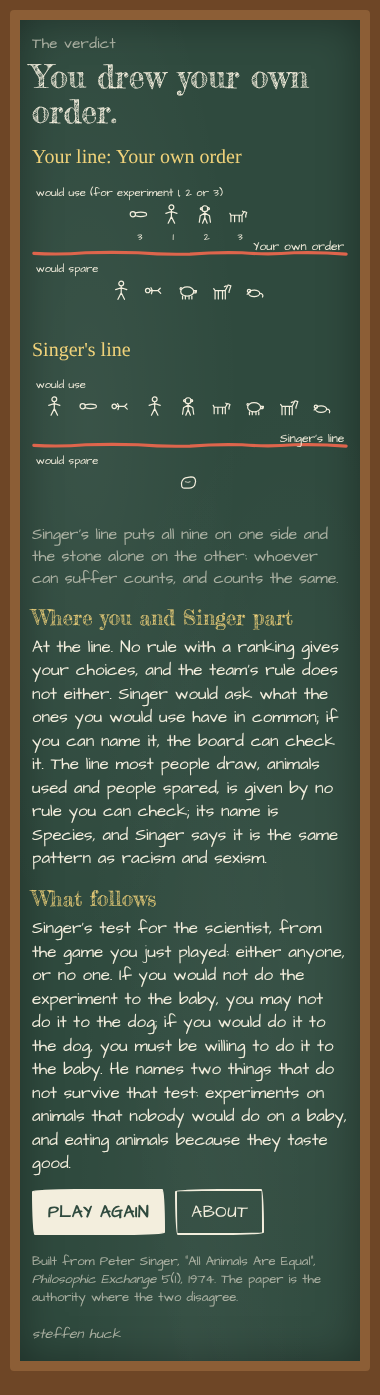
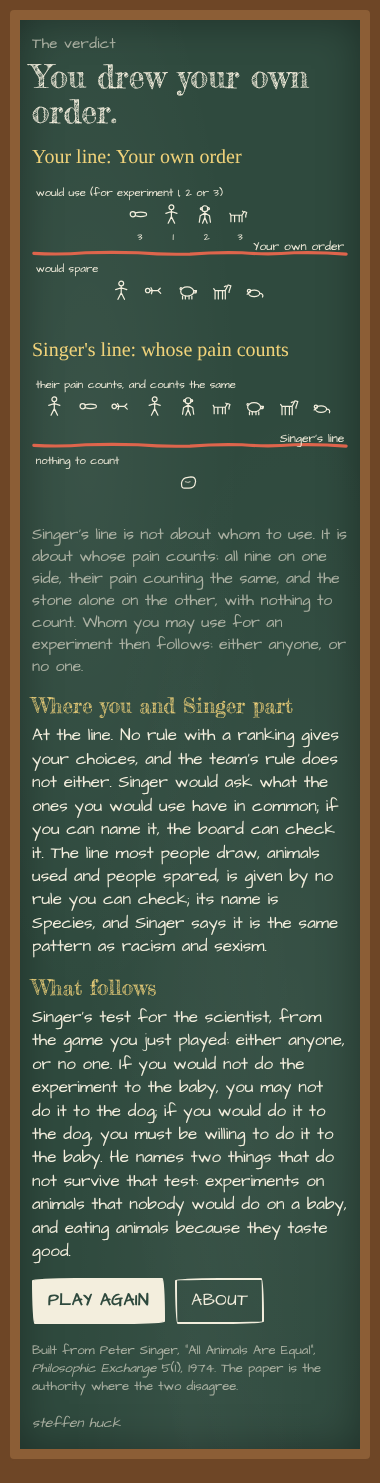
Draw a Line with Singer: the verdict's Singer drawing is about whose pain counts, not whom to use
The second drawing had borrowed the "would use / would spare" labels, which read as Singer using all nine and sparing the stone. Its labels are now "their pain counts, and counts the same" / "nothing to count", its heading "Singer's line: whose pain counts", and the caption says whom to use follows from it: either anyone, or no one.

Claude-Session: https://claude.ai/code/session_018niUhxTtpvUeZgsoHw7ZtQ

Changed region(s): [[0.0868, 0.0, 0.9263, 0.9864], [0.6658, 0.0308, 0.8105, 0.0616]]

diff --git a/singer/draw-a-line-with-singer.html b/singer/draw-a-line-with-singer.html
@@ -169,7 +169,7 @@ a{color:var(--chalk)}
   <div class="fate" id="fate"></div>
   <div class="vp-head" id="vp-yours"></div>
   <div class="verdictpic"><svg id="pic-yours" viewBox="0 0 340 150"></svg></div>
-  <div class="vp-head">Singer's line</div>
+  <div class="vp-head">Singer's line: whose pain counts</div>
   <div class="verdictpic"><svg id="pic-singer" viewBox="0 0 340 150"></svg></div>
   <p class="find" id="v-singer"></p>
   <div class="sec"><h2>Where you and Singer part</h2><div id="v-part"></div></div>
@@ -446,7 +446,7 @@ function verdict(state) {
   else if (s.id === 'line') { fate = 'You drew a straight line in the wrong place.'; part = 'At the rule. A rule you can check gives your choices, so they are not made by hand; but Singer says it is the wrong rule, as arbitrary as skin colour: the ones you would use are hurt exactly as much as the ones you would spare. ' + team; }
   else if (s.id === 'species') { fate = 'Your hand drew the line, not a rule.'; part = 'At the line. The only difference between the animals you would use and the people you would spare that fits what you did is the team each is on. Singer\'s word for that is speciesism, and he says it is the same pattern as racism and sexism.'; }
   else { fate = 'You drew your own order.'; part = 'At the line. No rule with a ranking gives your choices, and the team\'s rule does not either. Singer would ask what the ones you would use have in common; if you can name it, the board can check it. ' + team; }
-  var singerLine = 'Singer\'s line puts all nine on one side and the stone alone on the other: whoever can suffer counts, and counts the same.';
+  var singerLine = 'Singer\'s line is not about whom to use. It is about whose pain counts: all nine on one side, their pain counting the same, and the stone alone on the other, with nothing to count. Whom you may use for an experiment then follows: either anyone, or no one.';
   return { fate: fate, name: w.name, who: w.who, part: part, singerLine: singerLine, two: two, shape: s, line: line, did: didWords(ticks) };
 }
 
@@ -633,8 +633,8 @@ if (typeof module !== 'undefined') module.exports = { CONFIG: CONFIG, expName: e
     window.scrollTo(0, 0);
   }
   // ---- the verdict: two drawings, then a few lines
-  function drawLinePic(svgId, used, spared, name, stakesOf) {
-    var svg = $(svgId), W = 340, g = '';
+  function drawLinePic(svgId, used, spared, name, stakesOf, labels) {
+    var svg = $(svgId), W = 340, g = ''; labels = labels || ['would use', 'would spare'];
     function row(ids, y, label, withStakes) {
       g += '<text x="4" y="' + (y - 22) + '" font-size="12" fill="#F0D27A">' + esc(label) + '</text>';
       var n = ids.length; if (!n) { g += '<text x="4" y="' + (y + 4) + '" font-size="13" fill="#F3EEDD" opacity=".7">nobody</text>'; return; }
@@ -645,10 +645,10 @@ if (typeof module !== 'undefined') module.exports = { CONFIG: CONFIG, expName: e
         if (withStakes) g += '<text x="' + (x + 14) + '" y="' + (y + 26) + '" text-anchor="middle" font-size="11" fill="#F0D27A">' + stakesOf(id) + '</text>';
       });
     }
-    row(used, 40, 'would use' + (used.length && stakesOf ? ' (for experiment 1, 2 or 3)' : ''), !!stakesOf);
+    row(used, 40, labels[0] + (used.length && stakesOf ? ' (for experiment 1, 2 or 3)' : ''), !!stakesOf);
     g += '<path d="' + wobble(2, 338, 80) + '" fill="none" stroke="#E8664D" stroke-width="3.4" stroke-linecap="round" opacity=".95"/>';
     g += '<text x="336" y="76" text-anchor="end" font-size="13" fill="#E8664D">' + esc(name) + '</text>';
-    row(spared, 122, 'would spare', false);
+    row(spared, 122, labels[1], false);
     svg.innerHTML = g;
   }
   function endGame() {
@@ -656,7 +656,7 @@ if (typeof module !== 'undefined') module.exports = { CONFIG: CONFIG, expName: e
     $('fate').textContent = v.fate;
     $('vp-yours').textContent = 'Your line: ' + v.name;
     drawLinePic('pic-yours', v.line.used, v.line.spared, v.name, v.line.stakes);
-    drawLinePic('pic-singer', SUB.slice(), ['stone'], 'Singer\'s line', null);
+    drawLinePic('pic-singer', SUB.slice(), ['stone'], 'Singer\'s line', null, ['their pain counts, and counts the same', 'nothing to count']);
     $('v-singer').textContent = v.singerLine;
     $('v-part').innerHTML = '<p>' + esc(v.part) + '</p>';
     $('v-stood').innerHTML = '<p>' + esc(v.two) + '</p>' + (v.shape.id === 'refuse' ? '<p><a href="../foot/foots-bad-man.html" style="color:#F0D27A">Play Foot\'s Bad Man →</a></p>' : '');

diff --git a/singer/template.html b/singer/template.html
@@ -169,7 +169,7 @@ a{color:var(--chalk)}
   <div class="fate" id="fate"></div>
   <div class="vp-head" id="vp-yours"></div>
   <div class="verdictpic"><svg id="pic-yours" viewBox="0 0 340 150"></svg></div>
-  <div class="vp-head">Singer's line</div>
+  <div class="vp-head">Singer's line: whose pain counts</div>
   <div class="verdictpic"><svg id="pic-singer" viewBox="0 0 340 150"></svg></div>
   <p class="find" id="v-singer"></p>
   <div class="sec"><h2>Where you and Singer part</h2><div id="v-part"></div></div>
@@ -384,8 +384,8 @@ a{color:var(--chalk)}
     window.scrollTo(0, 0);
   }
   // ---- the verdict: two drawings, then a few lines
-  function drawLinePic(svgId, used, spared, name, stakesOf) {
-    var svg = $(svgId), W = 340, g = '';
+  function drawLinePic(svgId, used, spared, name, stakesOf, labels) {
+    var svg = $(svgId), W = 340, g = ''; labels = labels || ['would use', 'would spare'];
     function row(ids, y, label, withStakes) {
       g += '<text x="4" y="' + (y - 22) + '" font-size="12" fill="#F0D27A">' + esc(label) + '</text>';
       var n = ids.length; if (!n) { g += '<text x="4" y="' + (y + 4) + '" font-size="13" fill="#F3EEDD" opacity=".7">nobody</text>'; return; }
@@ -396,10 +396,10 @@ a{color:var(--chalk)}
         if (withStakes) g += '<text x="' + (x + 14) + '" y="' + (y + 26) + '" text-anchor="middle" font-size="11" fill="#F0D27A">' + stakesOf(id) + '</text>';
       });
     }
-    row(used, 40, 'would use' + (used.length && stakesOf ? ' (for experiment 1, 2 or 3)' : ''), !!stakesOf);
+    row(used, 40, labels[0] + (used.length && stakesOf ? ' (for experiment 1, 2 or 3)' : ''), !!stakesOf);
     g += '<path d="' + wobble(2, 338, 80) + '" fill="none" stroke="#E8664D" stroke-width="3.4" stroke-linecap="round" opacity=".95"/>';
     g += '<text x="336" y="76" text-anchor="end" font-size="13" fill="#E8664D">' + esc(name) + '</text>';
-    row(spared, 122, 'would spare', false);
+    row(spared, 122, labels[1], false);
     svg.innerHTML = g;
   }
   function endGame() {
@@ -407,7 +407,7 @@ a{color:var(--chalk)}
     $('fate').textContent = v.fate;
     $('vp-yours').textContent = 'Your line: ' + v.name;
     drawLinePic('pic-yours', v.line.used, v.line.spared, v.name, v.line.stakes);
-    drawLinePic('pic-singer', SUB.slice(), ['stone'], 'Singer\'s line', null);
+    drawLinePic('pic-singer', SUB.slice(), ['stone'], 'Singer\'s line', null, ['their pain counts, and counts the same', 'nothing to count']);
     $('v-singer').textContent = v.singerLine;
     $('v-part').innerHTML = '<p>' + esc(v.part) + '</p>';
     $('v-stood').innerHTML = '<p>' + esc(v.two) + '</p>' + (v.shape.id === 'refuse' ? '<p><a href="../foot/foots-bad-man.html" style="color:#F0D27A">Play Foot\'s Bad Man →</a></p>' : '');

diff --git a/singer/mechanism.js b/singer/mechanism.js
@@ -228,7 +228,7 @@ function verdict(state) {
   else if (s.id === 'line') { fate = 'You drew a straight line in the wrong place.'; part = 'At the rule. A rule you can check gives your choices, so they are not made by hand; but Singer says it is the wrong rule, as arbitrary as skin colour: the ones you would use are hurt exactly as much as the ones you would spare. ' + team; }
   else if (s.id === 'species') { fate = 'Your hand drew the line, not a rule.'; part = 'At the line. The only difference between the animals you would use and the people you would spare that fits what you did is the team each is on. Singer\'s word for that is speciesism, and he says it is the same pattern as racism and sexism.'; }
   else { fate = 'You drew your own order.'; part = 'At the line. No rule with a ranking gives your choices, and the team\'s rule does not either. Singer would ask what the ones you would use have in common; if you can name it, the board can check it. ' + team; }
-  var singerLine = 'Singer\'s line puts all nine on one side and the stone alone on the other: whoever can suffer counts, and counts the same.';
+  var singerLine = 'Singer\'s line is not about whom to use. It is about whose pain counts: all nine on one side, their pain counting the same, and the stone alone on the other, with nothing to count. Whom you may use for an experiment then follows: either anyone, or no one.';
   return { fate: fate, name: w.name, who: w.who, part: part, singerLine: singerLine, two: two, shape: s, line: line, did: didWords(ticks) };
 }
 
